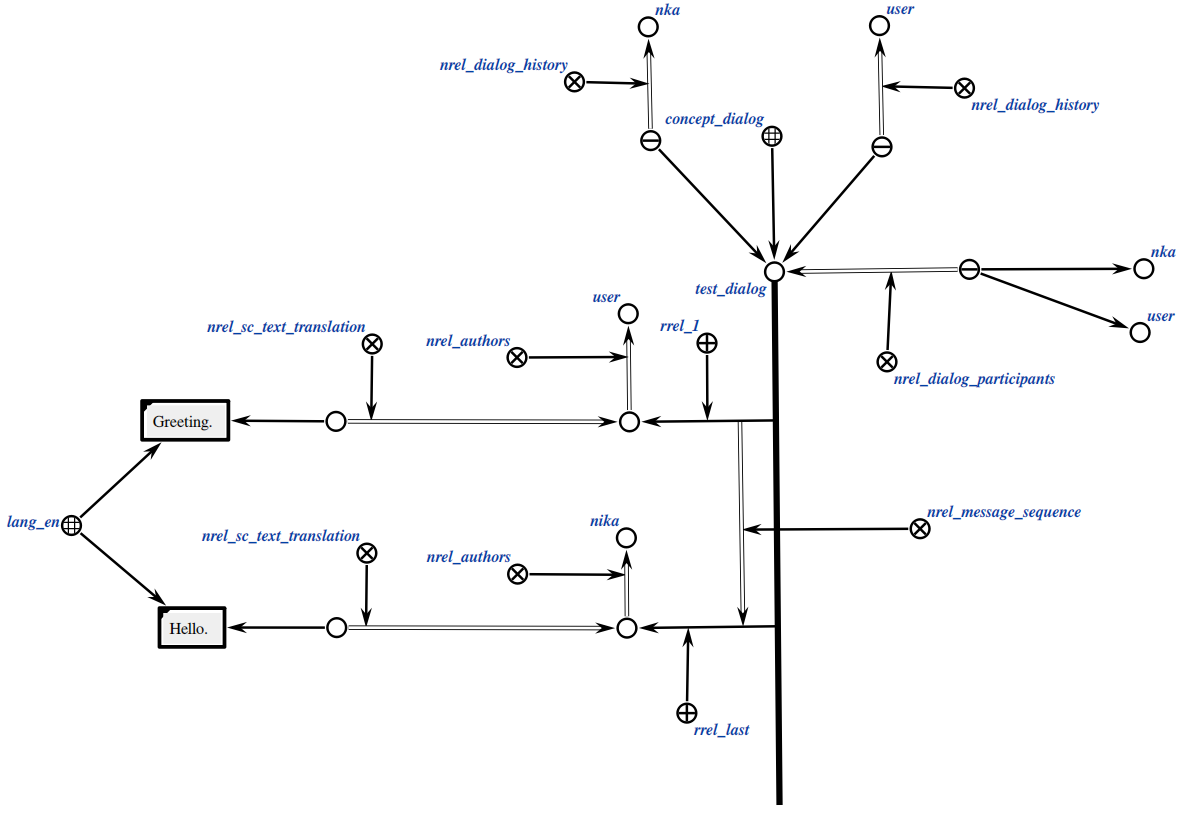
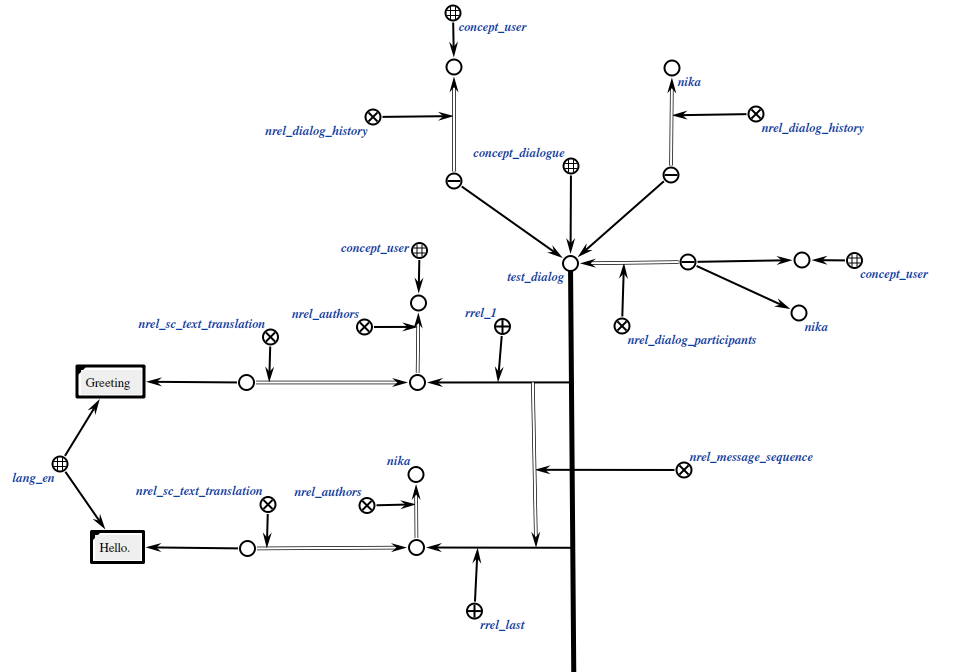
fix: dialog history

diff --git a/problem-solver/cxx/dialogControlModule/agent/MessageHistoryGenerationAgent.cpp b/problem-solver/cxx/dialogControlModule/agent/MessageHistoryGenerationAgent.cpp
@@ -9,9 +9,6 @@
 
 #include "MessageHistoryGenerationAgent.hpp"
 
-using namespace std;
-
-// using namespace inference;
 using namespace utils;
 
 namespace dialogControlModule
@@ -19,17 +16,16 @@ namespace dialogControlModule
 SC_AGENT_IMPLEMENTATION(MessageHistoryGenerationAgent)
 {
   ScAddr actionNode = m_memoryCtx.GetEdgeTarget(edgeAddr);
-  MessageHistoryGenerator generator(&m_memoryCtx);
   if (!checkActionClass(actionNode))
   {
     return SC_RESULT_OK;
   }
   SC_LOG_DEBUG("MessageHistoryGenerationAgent started");
   
-  ScAddr messageUser = 
+  ScAddr message = 
       IteratorUtils::getAnyByOutRelation(&m_memoryCtx, actionNode, scAgentsCommon::CoreKeynodes::rrel_1);
 
-  if (!messageUser.IsValid())
+  if (!message.IsValid())
   {
     SC_LOG_DEBUG("MessageHistoryGenerationAgent: the action doesn't have a message node");
     SC_LOG_DEBUG("MessageHistoryGenerationAgent finished");
@@ -37,47 +33,19 @@ SC_AGENT_IMPLEMENTATION(MessageHistoryGenerationAgent)
     return SC_RESULT_ERROR_INVALID_PARAMS;
   }
 
-  ScAddr answerMessage =
-      IteratorUtils::getAnyByOutRelation(&m_memoryCtx, actionNode, scAgentsCommon::CoreKeynodes::rrel_2);
+  ScAddr dialogAddr = utils::IteratorUtils::getAnyByOutRelation(&m_memoryCtx, actionNode, scAgentsCommon::CoreKeynodes::rrel_2);
 
-  if (!answerMessage.IsValid())
-  {
-    SC_LOG_DEBUG("MessageHistoryGenerationAgent: the action doesn't have a message node");
-    SC_LOG_DEBUG("MessageHistoryGenerationAgent finished");
-    AgentUtils::finishAgentWork(&m_memoryCtx, actionNode, false);
-    return SC_RESULT_ERROR_INVALID_PARAMS;
-  }
-
-  ScIterator3Ptr message = m_memoryCtx.Iterator3(
-  answerMessage,
-  ScType::EdgeAccessConstPosTemp,
-  ScType::NodeConst
-  );
-
-  ScAddr messageNika;
-
-  if (message->Next())
-  {
-    messageNika = message->Get(2);
-  };
-
-  ScAddr dialogAddr = utils::IteratorUtils::getAnyByOutRelation(&m_memoryCtx, actionNode, scAgentsCommon::CoreKeynodes::rrel_3);
-
-  ScAddr concept_user = m_memoryCtx.HelperFindBySystemIdtf("concept_user");
-  ScAddr nika = m_memoryCtx.HelperFindBySystemIdtf("nika");
-
-  generator.addMessageToDialog(dialogAddr, messageUser, concept_user);
-
-  generator.addMessageToDialog(dialogAddr, messageNika, nika);
+  MessageHistoryGenerator generator(&m_memoryCtx);
+  generator.addMessageToDialog(dialogAddr, message);
 
   AgentUtils::finishAgentWork(&m_memoryCtx, actionNode,  true);
   SC_LOG_DEBUG("MessageHistoryGenerationAgent finished");
   return SC_RESULT_OK;
 }
 
-bool MessageHistoryGenerationAgent::checkActionClass(const ScAddr & actionNode)
+bool MessageHistoryGenerationAgent::checkActionClass(ScAddr const & actionNode)
 {
   return m_memoryCtx.HelperCheckEdge(
-      MessageKeynodes::action_message_history_generation, actionNode, ScType::EdgeAccessConstPosPerm);
+      MessageKeynodes::action_add_message_to_the_dialog, actionNode, ScType::EdgeAccessConstPosPerm);
 }
 }  // namespace dialogControlModule

diff --git a/problem-solver/cxx/dialogControlModule/generator/MessageHistoryGenerator.cpp b/problem-solver/cxx/dialogControlModule/generator/MessageHistoryGenerator.cpp
@@ -16,22 +16,10 @@ MessageHistoryGenerator::MessageHistoryGenerator(ScMemoryContext * context)
 
 void MessageHistoryGenerator::addMessageToDialog(
     const ScAddr & dialogAddr,
-    const ScAddr & messageAddr,
-    const ScAddr & authorsAddr)
+    const ScAddr & messageAddr)
 {
   auto scTemplate = std::make_unique<ScTemplate>();
   ScAddr lastMessageAddr;
-
-  // if (!dialogAddr.IsValid())
-  //   SC_THROW_EXCEPTION(ExceptionItemNotFound, "Can't add message to dialog. Dialog addr is not valid");
-  // if (!messageAddr.IsValid())
-  //   SC_THROW_EXCEPTION(ExceptionItemNotFound, "Can't add message to dialog. Message addr is not valid");
-  // if (!authorsAddr.IsValid())
-  //   SC_THROW_EXCEPTION(ExceptionItemNotFound, "Can't add message to dialog. Authors addr is not valid");
-  // if (IteratorUtils::getAnyFromSet(context, authorsAddr).IsValid() == SC_FALSE)
-  //   SC_THROW_EXCEPTION(ExceptionItemNotFound, "Can't add message to dialog. Author addr is not valid"); 
-
-  utils::GenerationUtils::generateRelationBetween(context, messageAddr, authorsAddr, MessageKeynodes::nrel_authors);
 
   ScIterator5Ptr iterator5Ptr = context->Iterator5(
       dialogAddr,

diff --git a/problem-solver/cxx/dialogControlModule/keynodes/MessageKeynodes.hpp b/problem-solver/cxx/dialogControlModule/keynodes/MessageKeynodes.hpp
@@ -19,8 +19,8 @@ public:
   SC_PROPERTY(Keynode("action_standard_message_reply"), ForceCreate)
   static ScAddr action_standard_message_reply;
 
-  SC_PROPERTY(Keynode("action_message_history_generation"), ForceCreate)
-  static ScAddr action_message_history_generation;
+  SC_PROPERTY(Keynode("action_add_message_to_the_dialog"), ForceCreate)
+  static ScAddr action_add_message_to_the_dialog;
 
   SC_PROPERTY(Keynode("concept_answer_on_standard_message_rule"), ForceCreate)
   static ScAddr concept_answer_on_standard_message_rule;
@@ -39,7 +39,7 @@ public:
 
   SC_PROPERTY(Keynode("nrel_answer_pattern"), ForceCreate)
   static ScAddr nrel_answer_pattern;
-  
+
   SC_PROPERTY(Keynode("nrel_authors"), ForceCreate)
   static ScAddr nrel_authors;
 

diff --git a/problem-solver/cxx/dialogControlModule/DialogControlModule.cpp b/problem-solver/cxx/dialogControlModule/DialogControlModule.cpp
@@ -34,9 +34,9 @@ sc_result DialogControlModule::InitializeImpl()
     SC_AGENT_REGISTER(StandardMessageReplyAgent);
   }
 
-  if (ActionUtils::isActionDeactivated(&ctx, MessageKeynodes::action_message_history_generation))
+  if (ActionUtils::isActionDeactivated(&ctx, MessageKeynodes::action_add_message_to_the_dialog))
   {
-    SC_LOG_DEBUG("action_message_history_generation is deactivated");
+    SC_LOG_DEBUG("action_add_message_to_the_dialog is deactivated");
   }
   else
   {

diff --git a/problem-solver/cxx/messageReplyModule/agent/MessageReplyAgent.cpp b/problem-solver/cxx/messageReplyModule/agent/MessageReplyAgent.cpp
@@ -96,7 +96,7 @@ SC_AGENT_IMPLEMENTATION(MessageReplyAgent)
 
     ScAddr const & replyMessageAddr = searchResult[0]["_reply_message"];
     utils::GenerationUtils::generateRelationBetween(
-        &m_memoryCtx, replyMessageAddr, MessageReplyKeynodes::myself, MessageReplyKeynodes::nrel_authors);
+        &m_memoryCtx, replyMessageAddr, MessageReplyKeynodes::nika, MessageReplyKeynodes::nrel_authors);
 
     generator.addMessageToDialog(chatAddr, replyMessageAddr);
   }

diff --git a/problem-solver/cxx/dialogControlModule/keynodes/MessageKeynodes.cpp b/problem-solver/cxx/dialogControlModule/keynodes/MessageKeynodes.cpp
@@ -6,7 +6,7 @@ namespace dialogControlModule
 {
 ScAddr MessageKeynodes::action_phrase_generation;
 ScAddr MessageKeynodes::action_standard_message_reply;
-ScAddr MessageKeynodes::action_message_history_generation;
+ScAddr MessageKeynodes::action_add_message_to_the_dialog;
 ScAddr MessageKeynodes::concept_answer_on_standard_message_rule;
 ScAddr MessageKeynodes::concept_answer_on_standard_message_rule_class_by_priority;
 ScAddr MessageKeynodes::concept_atomic_message;

diff --git a/problem-solver/cxx/dialogControlModule/generator/MessageHistoryGenerator.hpp b/problem-solver/cxx/dialogControlModule/generator/MessageHistoryGenerator.hpp
@@ -12,7 +12,7 @@ class MessageHistoryGenerator
 public:
   explicit MessageHistoryGenerator(ScMemoryContext * ms_context);
 
-  void addMessageToDialog(const ScAddr & dialogAddr, const ScAddr & messageAddr, const ScAddr & authorsAddr);
+  void addMessageToDialog(const ScAddr & dialogAddr, const ScAddr & messageAddr);
 
   std::unique_ptr<ScTemplate> createNotFirstMessageInDialogTemplate(
       const ScAddr & dialogAddr,

diff --git a/problem-solver/cxx/messageReplyModule/keynodes/MessageReplyKeynodes.cpp b/problem-solver/cxx/messageReplyModule/keynodes/MessageReplyKeynodes.cpp
@@ -17,5 +17,6 @@ ScAddr MessageReplyKeynodes::concept_dialogue;
 ScAddr MessageReplyKeynodes::rrel_last;
 ScAddr MessageReplyKeynodes::nrel_message_sequence;
 ScAddr MessageReplyKeynodes::myself;
+ScAddr MessageReplyKeynodes::nika;
 
 }  // namespace messageReplyModule

diff --git a/problem-solver/cxx/messageReplyModule/keynodes/MessageReplyKeynodes.hpp b/problem-solver/cxx/messageReplyModule/keynodes/MessageReplyKeynodes.hpp
@@ -51,6 +51,9 @@ public:
 
   SC_PROPERTY(Keynode("myself"), ForceCreate(ScType::NodeConst))
   static ScAddr myself;
+
+  SC_PROPERTY(Keynode("nika"), ForceCreate(ScType::NodeConst))
+  static ScAddr nika;
 };
 
 }  // namespace messageReplyModule

diff --git a/docs/agents/messageHistoryGenerationAgent.md b/docs/agents/messageHistoryGenerationAgent.md
@@ -1,34 +1,31 @@
-Is an agent that saves the dialog history.
+Is an agent that adds message to the dialog,.
 
 **Action class:**
 
-`action_message_history_generation`
+`action_add_message_to_the_dialog`
 
 
 **Parameters:**
 
 1. `message node` - an element of `concept_message` and `concept_atomic_message` or `concept_non_atomic_message`;
-2. `reply message node` - an answer message that will be generated by the system;
-3. `dialog history` - an element of `concept_dialod` where the dialog history will be saved.
+2. `dialog history` - an element of `concept_dialogue` where the dialog history will be saved.
 
 **Workflow:**
 
-* A relation `nrel_authors` is added to the input messages;
-* The resulting constructions are added to the dialog history. 
+* The message node received by the agent is added to the message sequence in the dialog history. 
 * If the dialog history is empty, then a relation `rrel_1` will be added to the first added message. The last message always has a relation `rrel_last` . There is a relation `nrel_message_sequence` between messages that defines the sequence of messages in the dialog. 
 
 ### Example
 
-Example of an input structures:
-
-<img src="../images/messageHistoryGenerationAgentInputUser.png"></img>
-<img src="../images/messageHistoryGenerationAgentInputNika.png"></img>
-<img src="../images/messageHistoryGenerationAgentInputDialog.png"></img>
-
-Example of a generated structures with added relation `nrel_authors`:
+Example of an input structures to add a user message to the dialog:
 
 <img src="../images/messageHistoryGenerationAgentUser.png"></img>
+<img src="../images/messageHistoryGenerationAgentTestDialogUser.png"></img>
+
+Example of an input structures to add a systems message to the dialog:
+
 <img src="../images/messageHistoryGenerationAgentNika.png"></img>
+<img src="../images/messageHistoryGenerationAgentTestDialogNika.png"></img>
 
 Example of an output structure:
 
